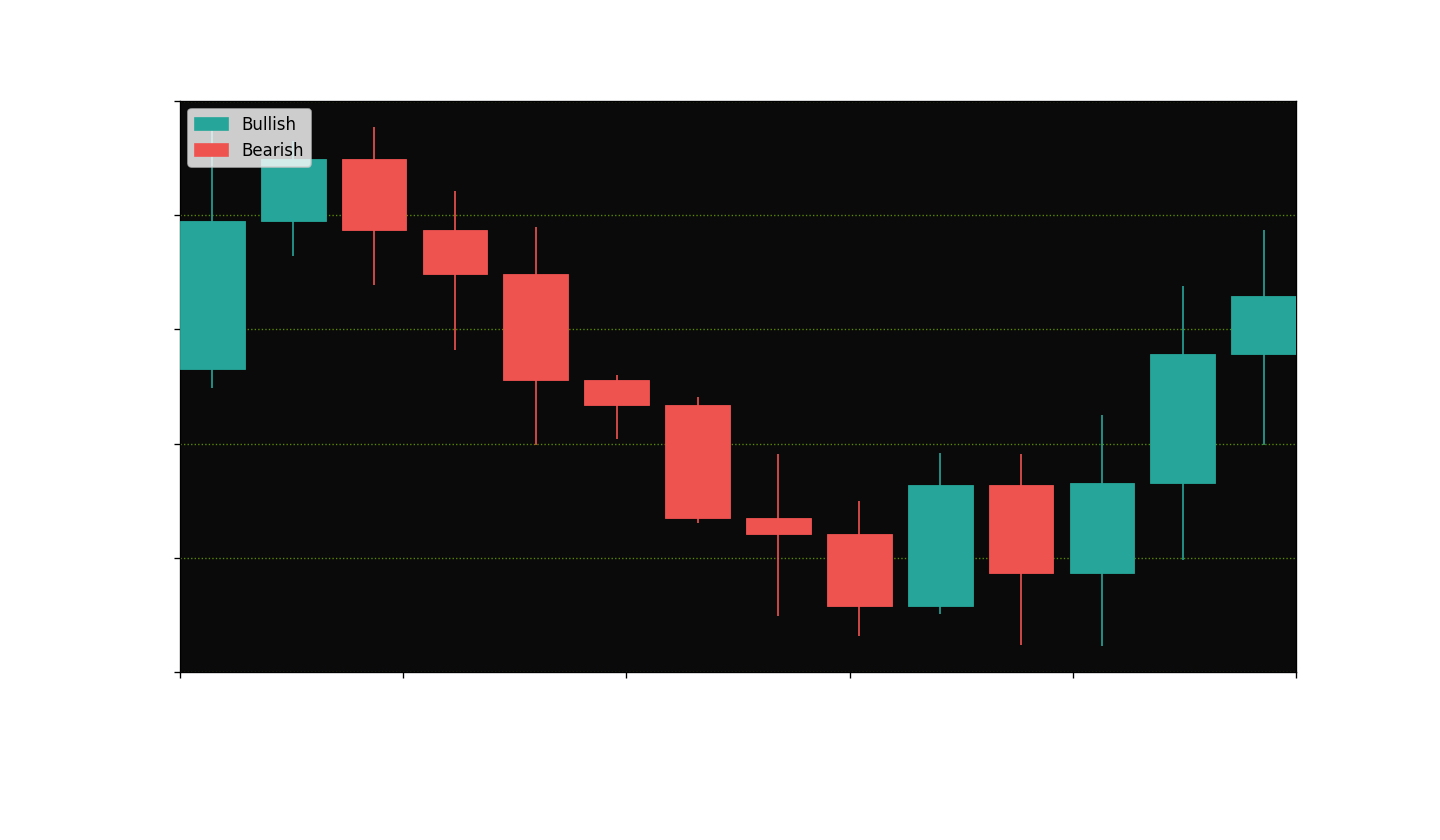
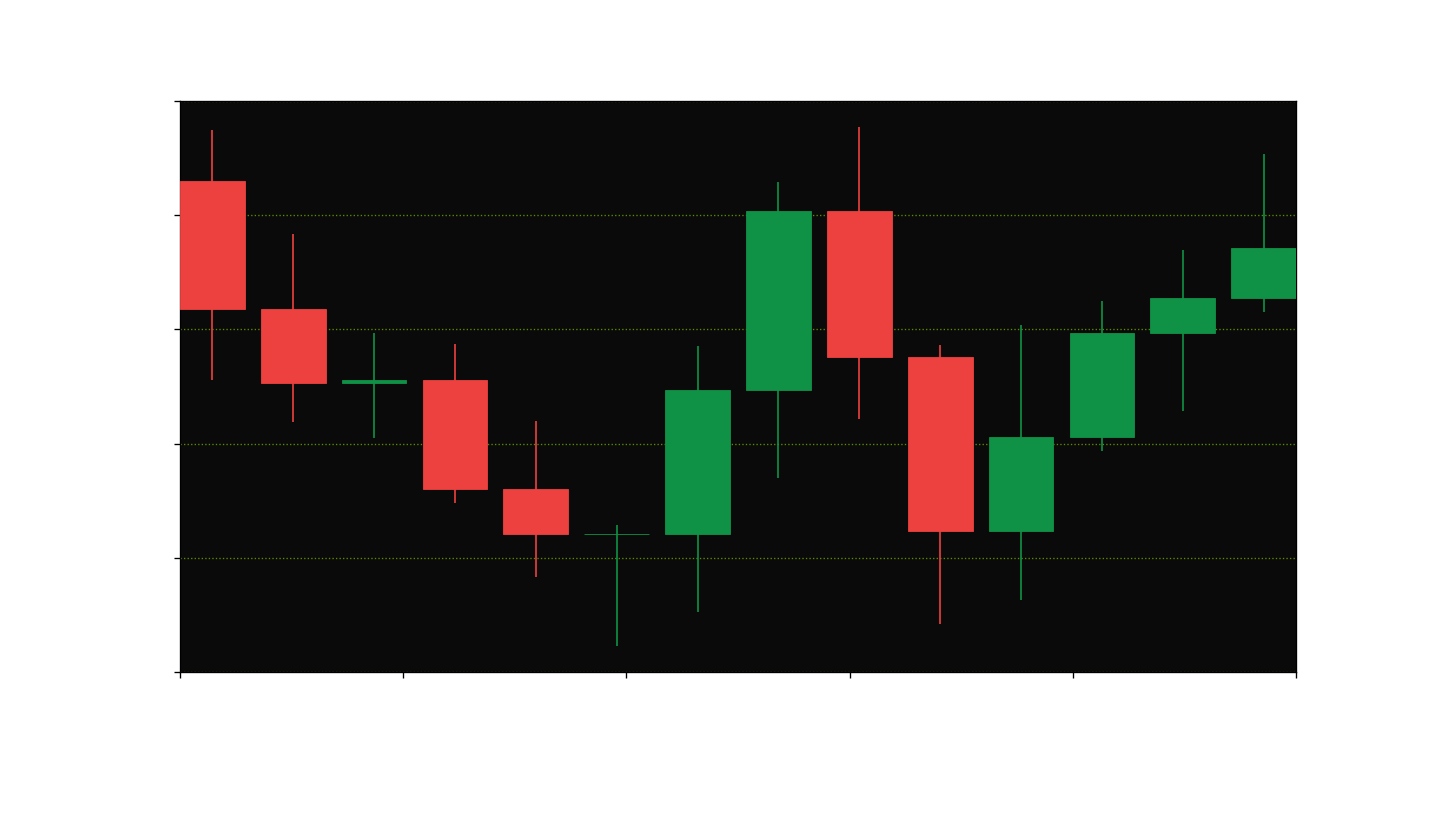
fixed datalabel formatting and tick locators.

Changed region(s): [[0.125, 0.1238, 0.9062, 0.7429]]

diff --git a/src/backend/mcp_servers/mcp_chart_generation/chart_helper_functions.py b/src/backend/mcp_servers/mcp_chart_generation/chart_helper_functions.py
@@ -109,62 +109,18 @@ def build_base_chart(
     ax.set_ylabel("Price (USD)", fontsize=12, labelpad=10, fontweight="bold", color=text_color)
     ax.set_xlabel("Trading Date", fontsize=12, labelpad=10, fontweight="bold", color=text_color)
 
-    # Determine total time spanned
-    span = dt_dates[-1] - dt_dates[0]
-    total_hours = span.total_seconds() / 3600.0
-    total_days = span.days + span.seconds / 86400.0
-
-    # Choose locator and formatter based on the table
-    if total_hours <= 1:                     # ≤1 hour → 5‑minute ticks
-        locator = mdates.MinuteLocator(interval=5)
-        fmt = '%I:%M %p'
-    elif total_hours <= 2:                   # 1–2 hours → 15‑minute ticks
-        locator = mdates.MinuteLocator(interval=15)
-        fmt = '%I:%M %p'
-    elif total_hours <= 6:                   # 2–6 hours → 30‑minute ticks
-        locator = mdates.MinuteLocator(interval=30)
-        fmt = '%I:%M %p'
-    elif total_hours <= 12:                  # 6–12 hours → 1‑hour ticks
-        locator = mdates.HourLocator(interval=1)
-        fmt = '%I:%M %p'
-    elif total_hours <= 24:                  # 12–24 hours → 2‑hour ticks
-        locator = mdates.HourLocator(interval=2)
-        fmt = '%I:%M %p'
-    elif total_days <= 3:                    # 1–3 days → 6‑hour ticks
-        locator = mdates.HourLocator(interval=6)
-        fmt = '%m/%d %I:%M %p'
-    elif total_days <= 7:                    # 3–7 days → 1‑day ticks
-        locator = mdates.DayLocator(interval=1)
-        fmt = '%m/%d'
-    elif total_days <= 28:                   # 1–4 weeks → 2‑day ticks
-        locator = mdates.DayLocator(interval=2)
-        fmt = '%m/%d'
-    elif total_days <= 90:                   # 1–3 months → 1‑week ticks
-        locator = mdates.WeekdayLocator(interval=1)
-        fmt = '%m/%d'
-    elif total_days <= 365:                  # 3–12 months → 1‑month ticks
-        locator = mdates.MonthLocator(interval=1)
-        fmt = '%Y-%m'
-    else:                                    # >1 year → quarterly ticks
-        locator = mdates.MonthLocator(interval=3)
-        fmt = '%Y'
-
-    # Apply locator and formatter
+    # Calculate and apply locator and formatter to axis
+    locator, formatter = get_date_locator_and_formatter(dt_dates)
     ax.xaxis.set_major_locator(locator)
-    ax.xaxis.set_major_formatter(mdates.DateFormatter(fmt))
+    ax.xaxis.set_major_formatter(formatter)
 
-    # Force ticks to be evenly spaced while keeping first and last
-    num_xticks = TICK_NUMBER
-    num_yticks = TICK_NUMBER
-
-    # X-axis: generate equally spaced positions in the float coordinate
+    # Evenly space X and Y ticks
     xmin, xmax = ax.get_xlim()
-    xticks = np.linspace(xmin, xmax, num_xticks)   # evenly spaced
+    xticks = np.linspace(xmin, xmax, TICK_NUMBER)   # evenly spaced
     ax.set_xticks(xticks)
 
-    # Y-axis: generate equally spaced price values
     ymin, ymax = ax.get_ylim()
-    yticks = np.linspace(ymin, ymax, num_yticks)
+    yticks = np.linspace(ymin, ymax, TICK_NUMBER)
     ax.set_yticks(yticks)
 
     # Grid and tick parameters using theme
@@ -322,15 +278,15 @@ def build_candlestick_chart(
     else:
         candle_width = 0.6  # fallback for a single candle
 
-    bull_color = theme.get("candle_up", "#26a69a")    # teal-green default
-    bear_color = theme.get("candle_down", "#ef5350")  # red default
+    bull_color = theme.get("candle_up", "#109246")    # green default
+    bear_color = theme.get("candle_down", "#ec413e")  # red default
     wick_color = theme.get("wick", None)              # None → match body color
 
     # Draw wicks and bodies for each candle
-    for i, (date, open_, high, low, close) in enumerate(
+    for i, (date, open, high, low, close) in enumerate(
         zip(dt_dates, opens, highs, lows, closes)
     ):
-        is_bull = close >= open_
+        is_bull = close >= open
         body_color = bull_color if is_bull else bear_color
         wc = wick_color if wick_color else body_color
 
@@ -338,8 +294,8 @@ def build_candlestick_chart(
         ax.vlines(date, low, high, color=wc, linewidth=1, zorder=4)
 
         # Body: rectangle from open to close
-        body_bottom = min(open_, close)
-        body_height = abs(close - open_)
+        body_bottom = min(open, close)
+        body_height = abs(close - open)
         ax.bar(
             date,
             body_height,
@@ -388,35 +344,78 @@ def build_candlestick_chart(
         mdates.date2num(dt_dates[-1]) + half_width,
     )
 
-    # Evenly spaced ticks
+    locator, formatter = get_date_locator_and_formatter(dt_dates)
+    ax.xaxis.set_major_locator(locator)
+    ax.xaxis.set_major_formatter(formatter)
+    
+    # Evenly space X and Y ticks
     xmin, xmax = ax.get_xlim()
-    ax.set_xticks(np.linspace(xmin, xmax, TICK_NUMBER))
+    xticks = np.linspace(xmin, xmax, TICK_NUMBER)   # evenly spaced
+    ax.set_xticks(xticks)
+
     ymin, ymax = ax.get_ylim()
-    ax.set_yticks(np.linspace(ymin, ymax, TICK_NUMBER))
+    yticks = np.linspace(ymin, ymax, TICK_NUMBER)
+    ax.set_yticks(yticks)
 
-    # Date formatter based on time span
-    span = dt_dates[-1] - dt_dates[0]
-    total_hours = span.total_seconds() / 3600.0
-    total_days = span.days + span.seconds / 86400.0
-
-    if total_hours <= 24:
-        fmt = "%I:%M %p"
-    elif total_days <= 7:
-        fmt = "%m/%d"
-    elif total_days <= 365:
-        fmt = "%Y-%m"
-    else:
-        fmt = "%Y"
-
-    ax.xaxis.set_major_formatter(mdates.DateFormatter(fmt))
     fig.autofmt_xdate(rotation=0, ha="center")
     labels = ax.get_xticklabels()
     if labels:
         labels[0].set_horizontalalignment("left")
 
-    # Legend — two proxy patches for bull/bear
-    bull_patch = plt.Rectangle((0, 0), 1, 1, color=bull_color, label="Bullish")
-    bear_patch = plt.Rectangle((0, 0), 1, 1, color=bear_color, label="Bearish")
-    ax.legend(handles=[bull_patch, bear_patch], loc="upper left")
-
     return fig, ax
+
+def get_date_locator_and_formatter(dt_dates: list) -> tuple[mdates.DateLocator, mdates.DateFormatter]:
+    """
+    Selects an appropriate x-axis tick locator and date formatter based on
+    the total time span of the provided datetime list.
+
+    Intended as an internal helper for build_base_chart and
+    build_candlestick_chart — call it instead of duplicating this logic.
+
+    Args:
+        dt_dates: A list of parsed datetime objects in chronological order.
+
+    Returns:
+        A (locator, formatter) tuple ready to be passed to:
+            ax.xaxis.set_major_locator(locator)
+            ax.xaxis.set_major_formatter(formatter)
+    """
+    span = dt_dates[-1] - dt_dates[0]
+    total_hours = span.total_seconds() / 3600.0
+    total_days  = span.days + span.seconds / 86400.0
+
+    if total_hours <= 1:                     # ≤1 hour       → 5-minute ticks
+        locator = mdates.MinuteLocator(interval=5)
+        fmt = "%I:%M %p"
+    elif total_hours <= 2:                   # 1–2 hours     → 15-minute ticks
+        locator = mdates.MinuteLocator(interval=15)
+        fmt = "%I:%M %p"
+    elif total_hours <= 6:                   # 2–6 hours     → 30-minute ticks
+        locator = mdates.MinuteLocator(interval=30)
+        fmt = "%I:%M %p"
+    elif total_hours <= 12:                  # 6–12 hours    → 1-hour ticks
+        locator = mdates.HourLocator(interval=1)
+        fmt = "%I:%M %p"
+    elif total_hours <= 24:                  # 12–24 hours   → 2-hour ticks
+        locator = mdates.HourLocator(interval=2)
+        fmt = "%I:%M %p"
+    elif total_days <= 3:                    # 1–3 days      → 6-hour ticks
+        locator = mdates.HourLocator(interval=6)
+        fmt = "%m/%d %I:%M %p"
+    elif total_days <= 7:                    # 3–7 days      → 1-day ticks
+        locator = mdates.DayLocator(interval=1)
+        fmt = "%m/%d"
+    elif total_days <= 28:                   # 1–4 weeks     → 2-day ticks
+        locator = mdates.DayLocator(interval=2)
+        fmt = "%m/%d"
+    elif total_days <= 90:                   # 1–3 months    → 1-week ticks
+        locator = mdates.WeekdayLocator(interval=1)
+        fmt = "%m/%d"
+    elif total_days <= 365:                  # 3–12 months   → 1-month ticks
+        locator = mdates.MonthLocator(interval=1)
+        fmt = "%Y-%m"
+    else:                                    # >1 year       → quarterly ticks
+        locator = mdates.MonthLocator(interval=3)
+        fmt = "%Y"
+
+    return locator, mdates.DateFormatter(fmt)

diff --git a/src/backend/mcp_servers/mcp_chart_generation/test_server.py b/src/backend/mcp_servers/mcp_chart_generation/test_server.py
@@ -11,7 +11,7 @@ THEMES = [NVIDIA_THEME, AMD_THEME, META_THEME, X_THEME]
 
 START_PRICE = 76.12 # start price for dummy prices
 PRICE_DEVIATION = 2.5 # how far a new price may deviate from the last price
-NUMBER_OF_POINTS = 14 # number of price points (corresponds with date/time points)
+NUMBER_OF_POINTS = 60 # number of price points (corresponds with date/time points)
 
 WICK_EXTENSION = 1.5 # max extra range beyond open/close for high/low wicks
 
@@ -23,7 +23,7 @@ def test_chart_generation(advanced):
     base_date = datetime.now()
     dates = [(base_date - timedelta(weeks=i)).isoformat() for i in range(52)] # 1-YEAR weekly trend
     # dates = [(base_date - timedelta(days=i)).isoformat() for i in range(30)] # 1-MONTH daily trend
-    dates = [(base_date - timedelta(days=i)).isoformat() for i in range(14)] # 2-WEEK daily trend
+    # dates = [(base_date - timedelta(days=i)).isoformat() for i in range(14)] # 2-WEEK daily trend
     # dates = [(base_date - timedelta(hours=i)).isoformat() for i in range(72)] #  3-DAY hourly trend
     # dates = [(base_date - timedelta(hours=i)).isoformat() for i in range(24)] # 1-DAY hourly trend
     # dates = [(base_date - timedelta(minutes=i)).isoformat() for i in range(60)] # 1-HOUR minutely trend
@@ -63,10 +63,10 @@ def test_candlestick_generation():
     base_date = datetime.now()
     # dates = [(base_date - timedelta(weeks=i)).isoformat() for i in range(52)] # 1-YEAR weekly trend
     # dates = [(base_date - timedelta(days=i)).isoformat() for i in range(30)] # 1-MONTH daily trend
-    dates = [(base_date - timedelta(days=i)).isoformat() for i in range(14)] # 2-WEEK daily trend
+    # dates = [(base_date - timedelta(days=i)).isoformat() for i in range(14)] # 2-WEEK daily trend
     # dates = [(base_date - timedelta(hours=i)).isoformat() for i in range(72)] #  3-DAY hourly trend
     # dates = [(base_date - timedelta(hours=i)).isoformat() for i in range(24)] # 1-DAY hourly trend
-    # dates = [(base_date - timedelta(minutes=i)).isoformat() for i in range(60)] # 1-HOUR minutely trend
+    dates = [(base_date - timedelta(minutes=i)).isoformat() for i in range(60)] # 1-HOUR minutely trend
     dates.reverse() # Sort chronologically
  
     # Generate OHLC data via a random walk.

diff --git a/src/backend/mcp_servers/mcp_chart_generation/server.py b/src/backend/mcp_servers/mcp_chart_generation/server.py
@@ -127,8 +127,8 @@ def generate_candlestick_chart(
         closes:  Closing prices.
         symbol:  Ticker symbol shown in the chart title.
         theme:   Optional style overrides. Supports all keys from generate_line_chart, plus:
-                    - "candle_up"   (str) : Bullish candle color. Default: "#26a69a" (teal-green).
-                    - "candle_down" (str) : Bearish candle color. Default: "#ef5350" (red).
+                    - "candle_up"   (str) : Bullish candle color. Default: "#109246" (green).
+                    - "candle_down" (str) : Bearish candle color. Default: "#ec413e" (red).
                     - "wick"        (str) : Wick color. Default: matches body color.
     """
     validate_ohlc(dates, opens, highs, lows, closes)
